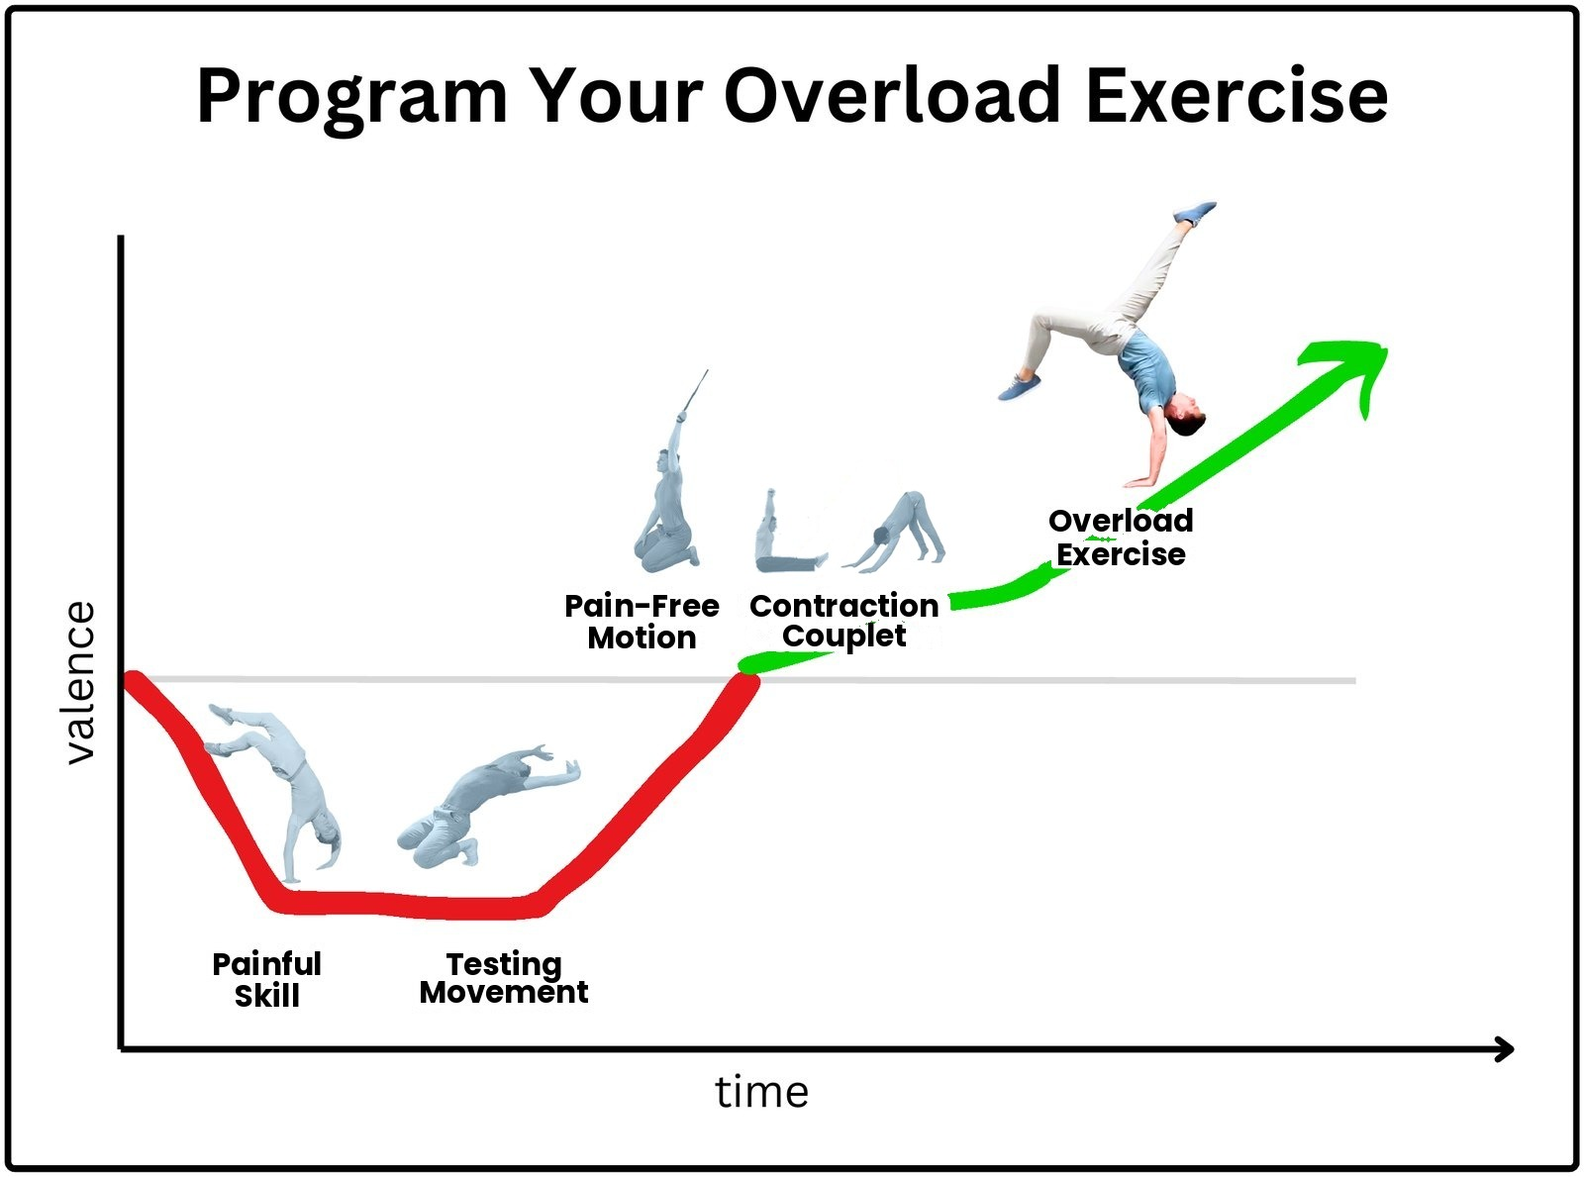
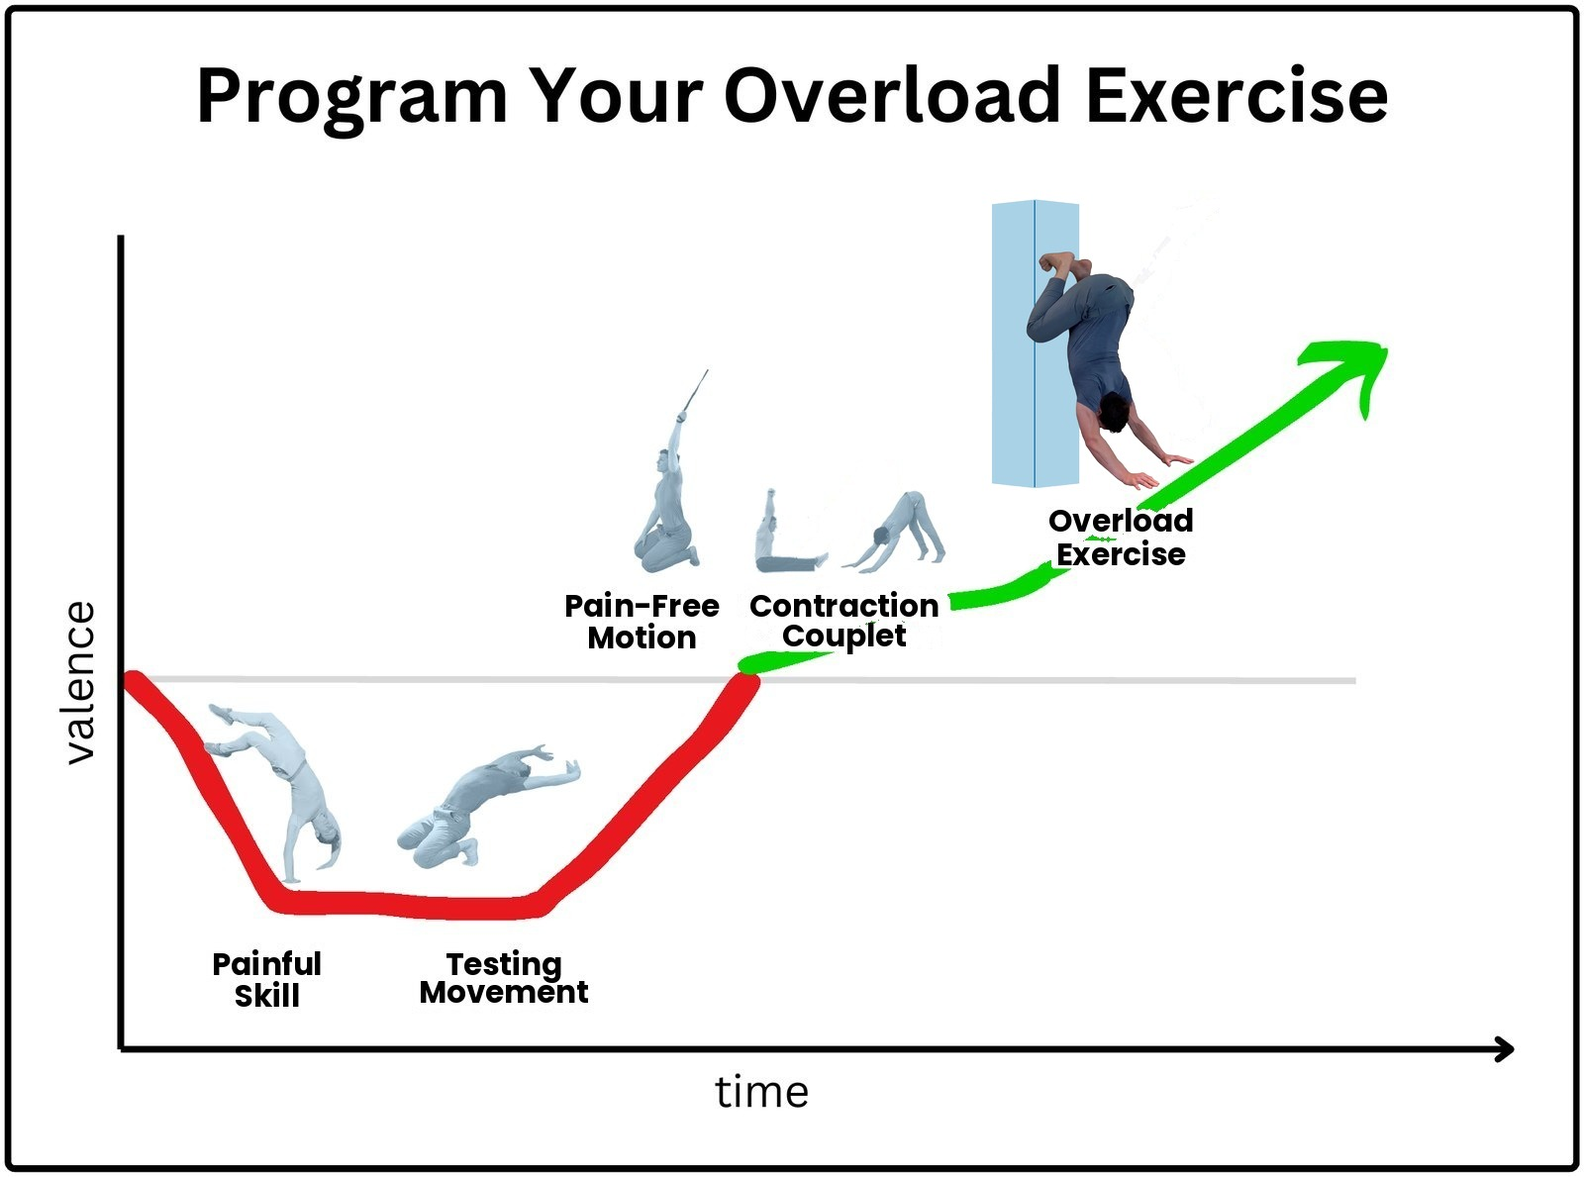
Preview: Sam's second round of comments; wall chest reach replaces the walkover in the journey graphics; vicious cycle images back in Learn
Claude-Session: https://claude.ai/code/session_016TMnibwH4s6BQ4bbPosSiD

Changed region(s): [[0.625, 0.1556, 0.7812, 0.4357], [0.75, 0.1556, 0.7812, 0.1867]]

diff --git a/index.html b/index.html
@@ -586,7 +586,7 @@ function tourCards(p){ const name=esc((p&&p.person)||"there"); const link=fromLi
   const c2 = `<h1>Here’s the path</h1><img class="fig" src="img/journey.jpg" alt="The resilience journey, steps 1 through 5." width="1000" height="794"><p>First, a short safety screening. Then five steps:</p><ul>
     <li><b>Assess:</b> name the skill that’s limited, and how much</li>
     <li><b>Discover:</b> find a simple test you’ll repeat once a week</li>
-    <li><b>Approach:</b> find two, gentle, daily movements</li>
+    <li><b>Approach:</b> find three gentle daily movements</li>
     <li><b>Program:</b> swap one exercise in your training for one that rebuilds the problem area</li>
     <li><b>Track:</b> see your progress as you tick off your daily movements, log the new exercise, and record your weekly test results</li></ul>`;
   const c3 = link ? `<h1>What it takes</h1><p>Your job now: about 3 minutes a day, your training with one exercise swapped, and one test a week. Send Sam a check-in whenever he asks, or anytime something changes.</p>`
@@ -695,7 +695,7 @@ V.screen = () => {
   return `<div class="stack">
   <div class="card flat"><span class="eyebrow">Before you start · Part ${part===1?2:1} of 2</span><h1>Pre-ADAPT Screening</h1></div>
   ${part===1?"":`<div class="card"><p>Before starting the ADAPT journey, we need to rule out more serious underlying conditions. If you select ‘yes’ for any of the red flags below, the pain and movement related symptoms you are experiencing may be secondary to something more nefarious. Or, they may be due to a more significant structural issue that requires invasive intervention.</p>
-  <p>In these cases, we advise you to seek out a professional healthcare provider in-person, if you haven’t already. Regardless, the ADAPT method, or at least the lessons and perspectives it is built upon, can still be powerful tools to help you on your journey, no matter what you are dealing with.</p></div>`}
+  <p>In these cases, we advise you to seek out a professional healthcare provider in-person, if you haven’t already, or you can get personalized guidance from our ADAPT team. Regardless, the ADAPT method, or at least the lessons and perspectives it is built upon, can still be powerful tools to help you on your journey, no matter what you are dealing with.</p></div>`}
   ${part!==1?`<div class="card"><h2>Red flags</h2><div>${RED_FLAGS.map((q,i)=>yn("rf",i+1,q,rf[i+1])).join("")}</div>
   <p class="fine"><b>*MEDICAL DISCLAIMER:</b> ${esc(SCREEN_DISCLAIMER)}</p></div>
   <div class="row spread"><button class="btn plain" data-act="go" data-v="home">Back</button><button class="btn" data-act="part" data-v="1">Next: Health status and history</button></div>`
@@ -786,6 +786,7 @@ function exBox(p,k,label){ const e=exFor(p);
 function subPart(n,title,paths,body){ const p=P(); const done = paths.length && paths.every(x=>String(getPath(p,x)??"").trim());
   return `<div class="card sub" data-req="${paths.join(",")}" data-done="${done?"1":""}"><h2 class="sub-h"><span class="n"><span>${n}</span></span>${esc(title)}</h2>${body}</div>`; }
 const more = (title, html) => `<details class="more"><summary>${esc(title)}</summary><div class="small">${html}</div></details>`;
+const PAIN_EX = `<p class="small">Ex., if your pain is normally at a 3/10, then temporarily aggravating your pain to a 5/10 can be tolerable IF between sets/after your workout it returns to a 3/10 or below.</p>`;
 const PAIN_GUIDE = `<div class="rule"><b>The pain guidelines: BOTH must be met</b><span>During movement: pain can increase 0-2 points out of 10 ABOVE baseline</span><span>At rest: pain returns to baseline level shortly after</span></div>`;
 const shown = v => { const t=String(v??"").trim(); return t ? esc(t) : `<span class="muted">Not filled in yet</span>`; };
 const regionName = p => [ (SIDES.find(s=>s[0]===p.side)||[])[1], (REGIONS.find(r=>r[0]===p.region)||[])[1] ].filter(Boolean).join(" ").toLowerCase();
@@ -800,7 +801,8 @@ const STEP_META = {
 const PARTS = {
   step1:[
     {t:"Overview", body:p=>{ const a=p.assess; return `<div class="card"><p>What are you dealing with? What is that getting in the way of? More information is better than less. You are setting your starting point and desired end-point. The more details you have, the easier the next steps will be.</p>
-      <div class="row" role="group" aria-label="Kind of limitation">
+      <b id="kind-q">Does your skill hurt, or is it limited without pain?</b>
+      <div class="row" role="group" aria-labelledby="kind-q">
       <button class="btn small ${a.kind!=="restricted"?"":"plain"}" data-act="kind" data-v="painful" aria-pressed="${a.kind!=="restricted"}">It hurts</button>
       <button class="btn small ${a.kind==="restricted"?"":"plain"}" data-act="kind" data-v="restricted" aria-pressed="${a.kind==="restricted"}">It's limited, but doesn't hurt</button></div>
       ${a.kind==="restricted"?`<p class="fine">If the label of “pain” isn’t connecting with you, we’ve all got a weak link that’s holding us back from a skill we want; just swap that language in your mind whenever it comes up.</p>`:""}</div>`; }},
@@ -837,6 +839,7 @@ const PARTS = {
       sum:p=>[["Crux",p.determine.crux]]},
     {t:"Testing Movement", paths:["determine.move"], body:p=>subPart(2,"Pick your Testing Movement",["determine.move"],`<p class="small">Choose a controlled, simple movement that replicates the crux you just identified. It should:</p>
       <ul class="tight small"><li>Bring on a little of the problem, so it actually tests something</li><li>Be easy and safe to get into, with no warm-up</li><li>Let <b>you</b> control the speed, how far you go, and load relatively easily</li></ul>
+      <div class="msg info"><b>The right amount of discomfort</b><ul class="tight small"><li>No extra pain the next day</li><li>No extra fear or nervousness about moving</li></ul><p class="small">You should feel fine visiting your pain this way once a week.</p></div>
       ${exBox(p,"tm")}
       ${field("My Testing Movement","determine.move","",{ph:"Name or describe the movement"})}
       ${more("Struggling to pick one?",`<p>If you’re fighting for balance or can’t control the speed, the test is probably too hard to be reliable; make it simpler or add support (a wall, a pole, a chair). The key is that you control when and how much you feel it.</p>`)}`)
@@ -847,12 +850,11 @@ const PARTS = {
       ${field("How far you go","determine.range","Use landmarks, not degrees. ex., “fingertips reach the top of the door frame” or “thighs level with the chair seat.”")}
       ${field("What load or assistance","determine.load","ex., bodyweight, a 5 kg plate, holding a chair.")}
       ${isPainful(p)?`<div style="display:grid;gap:6px"><b>Pain during the test (NRSoP, 0-10)</b>${scale("determine.nrsop",p.determine.nrsop,"nrsop")}</div>`:`<p class="fine">For a Restricted Skill, measure the test by range, reps, load, or time instead of pain.</p>`}
-      <div class="msg info"><b>The right amount of discomfort</b><ul class="tight small"><li>No extra pain the next day</li><li>No extra fear or nervousness about moving</li></ul><p class="small">You should feel fine visiting your pain this way once a week.</p></div>
       <div class="rule"><b>Test once a week, cold</b><span class="small">No warm-up, and around the same time of day if you can. Changes in these numbers over time tell you whether you’re improving, holding steady, or slipping.</span></div>`),
       sum:p=>[["Reps or time",p.determine.dose],["How far",p.determine.range],["Load or assistance",p.determine.load],...(isPainful(p)?[["NRSoP",p.determine.nrsop!=null?p.determine.nrsop+"/10":""]]:[])]}
   ],
   step3:[
-    {t:"Overview", body:p=>`<div class="card"><p>Now you’ll find two daily exercises that visit the crux safely:</p>
+    {t:"Overview", body:p=>`<div class="card"><p>Now you’ll find three daily exercises that visit the crux safely:</p>
       <ul class="tight small"><li><b>Pain-Free Motion:</b> move through the crux position with zero pain</li><li><b>Contraction Couplet:</b> two holds in the crux position, pushing in opposite directions</li></ul>
       ${more("Why these two?",`<p>Gentle, pain-free movement increases blood flow, helps healing, and teaches your brain that the position isn’t dangerous. Holding still while you push (an isometric hold) starts the strengthening, calms the pain response to load over time, and teaches your brain that loading the position is safe too.</p>`)}</div>`},
     {t:"Pain-Free Motion", paths:["approach.pfm"], body:p=>subPart(1,"Pain-Free Motion",["approach.pfm"],`<p class="small">Move in and out of the crux position with <b>zero pain or discomfort</b>, during and after. Get help to make that happen: a band, a wall, a door frame, your other hand, or a different body position.</p>
@@ -862,7 +864,8 @@ const PARTS = {
       sum:p=>[["Pain-Free Motion",p.approach.pfm]]},
     {t:"Contraction Couplet", paths:["approach.cc","approach.cc2"], body:p=>subPart(2,"Contraction Couplet",["approach.cc","approach.cc2"],`<p class="small">Two holds in the crux position. No movement; just push and hold.</p>
       <ol class="tight small"><li><b>Into it:</b> push in the direction that hurts</li><li><b>Away from it:</b> push the opposite way</li></ol>
-      <p class="small">Effort is fine, and pain can rise a little (up to 2 points above where you started) as long as it settles back down shortly after you stop. Adjust the angle, the support, or how hard you push until both holds fit.</p>
+      <p class="small">Effort is fine, and some pain is okay, as long as both holds stay within the pain guidelines. Adjust the angle, the support, or how hard you push until both holds fit.</p>
+      ${PAIN_GUIDE}${PAIN_EX}
       ${exBox(p,"into","Into it, example")}
       ${field("Hold 1: into it","approach.cc","",{area:true})}
       ${exBox(p,"away","Away from it, example")}
@@ -889,7 +892,7 @@ const PARTS = {
       <li><b>Range:</b> start where it doesn’t aggravate your pain, then go a little deeper over time until you reach your full range</li>
       <li><b>Load:</b> start lighter, then add weight; for bodyweight exercises, go from two limbs to one, steeper angles, or longer levers</li></ul>
       <img class="fig" src="img/ex-load.jpg" alt="Lower load to higher load in a similar range." width="1600" height="754">
-      ${more("The DRL method (Dose, Range, Load)",`<p>These are the same variables you use for all your conditioning exercises. Make sure to keep following the “Respect But Don’t Fear Your Pain” guidelines:</p>${PAIN_GUIDE}<p>If your pain is normally at a 3/10, then temporarily aggravating your pain to a 5/10 can be tolerable IF between sets/after your workout it returns to a 3/10 or below.</p>`)}</div>`}
+      ${more("The DRL method (Dose, Range, Load)",`<p>These are the same variables you use for all your conditioning exercises. Also, though, make sure to keep following the “Respect But Don’t Fear Your Pain” guidelines:</p>${PAIN_GUIDE}${PAIN_EX}`)}</div>`}
   ]
 };
 const partTitle = (p,pt) => typeof pt.t==="function" ? pt.t(p) : pt.t;
@@ -1145,9 +1148,6 @@ function planOnly(p){ const c=JSON.parse(JSON.stringify(p)); c.logs={daily:{},te
 const learnRaw = () => `<div class="stack">
   <div class="card flat"><span class="eyebrow">Learn</span><h1>The ideas behind ADAPT</h1></div>
   <img class="fig" src="img/five-movements.jpg" alt="The 5 Resilience Movements: Painful Skill, Testing Movement, Pain-Free Motion, Contraction Couplet, Overload Exercise." width="1600" height="622">
-  <details><summary>Introduction</summary><div class="body">
-  <p>This guide contains all the information you need to use the ADAPT method independently. Pain and injuries are inevitable parts of any training approach and life in general. Having the tools, and the knowledge for how to use them, to address the inevitable is therefore critically important to rescue and protect your Movement Freedom.</p>
-  <p><b>The goal</b> of ADAPT is to help you adapt beyond your previous limitations. It is a uniquely skill-first approach, meaning, the entire process is oriented towards and utilizes the dynamic skills and conditioning routine you cherish and are already using to achieve movement freedom.</p></div></details>
   <details><summary>Prerequisite knowledge</summary><div class="body">
   <p><b>Injury:</b> the tissue damage resulting from tissue overload. Lives in the tissue.</p>
   <p><b>Pain:</b> the negative physical experience frequently associated with injury. Lives in the brain.</p>
@@ -1159,8 +1159,8 @@ const learnRaw = () => `<div class="stack">
   <li><b>Ignoring pain</b> and just powering through is disrespecting your pain, and means alarm bells are constantly blaring during your activity, which feeds danger signals into the brain, which further amplifies the pain response</li>
   <li><b>The balance</b> of “respect but don’t fear your pain” means some pain is okay, maybe even good, depending on the context.</li></ul>
   <div class="rule"><b>The pain guidelines: BOTH must be met</b><span>During movement: pain can increase 0-2 points out of 10 ABOVE baseline</span><span>At rest: pain returns to baseline level shortly after</span></div>
-  <p class="small">If your pain is normally at a 3/10, then temporarily aggravating your pain to a 5/10 can be tolerable IF between sets/after your practice it returns to a 3/10 or below.</p></div></details>
-  <details><summary>Skills-first approach</summary><div class="body"><p>We often fall into a binary mindset when it comes to recovery: “I’m injured so I cannot/should not challenge myself. First recover, then I’ll challenge myself again.” This steals the joy of training and even potentially slows down the healing process. Instead, use what you love to make it love you back. Make your recovery approach as similar and as specific as possible to the training you feel passionate about.</p></div></details>
+  <p class="small">Ex., if your pain is normally at a 3/10, then temporarily aggravating your pain to a 5/10 can be tolerable IF between sets/after your practice it returns to a 3/10 or below.</p></div></details>
+  <details><summary>Skills-first approach</summary><div class="body"><p><b>The goal</b> of ADAPT is to help you adapt beyond your previous limitations. It is a uniquely skills-first approach, meaning the entire process is oriented towards and utilizes the dynamic skills and conditioning routine you cherish and are already using to achieve movement freedom.</p><p>We often fall into a binary mindset when it comes to recovery: “I’m injured so I cannot/should not challenge myself. First recover, then I’ll challenge myself again.” This steals the joy of training and even potentially slows down the healing process. Instead, use what you love to make it love you back. Make your recovery approach as similar and as specific as possible to the training you feel passionate about.</p></div></details>
   <details><summary>Find the victories obscured by the obvious losses</summary><div class="body"><p>It’s easy for us to focus on the negative; what we can’t do, don’t have, used to, should be able to, etc. We have “The One Big Goal” at the end for what success looks like. That’s great, but it means along the way we hate the process, our life, ourselves, because we aren’t THERE yet.</p>
   <p>Instead of just collecting all the negatives and being miserable, use each negative as an opportunity to find countless positives. “I can’t tie my shoes” gets redefined to “I can’t tie my shoes in XYZ-way like I normally do.” Then, explore multiple different ways to solve the problem. All of a sudden, that single, monumental, all-encompassing “I CAN’T,” which defines Movement Restriction, turns into: “Wow, I actually can tie my shoes if I do it in ABC- and DEF- and GHI-way, and I actually like GHI-way better than my usual XYZ-way.” Exploration, optionality, and adaptation are the hallmarks of Movement Freedom.</p></div></details>
   <details><summary>ADAPT beyond your previous limitations</summary><div class="body"><p>Your final destination is not merely to get back to where you were before the pain/injury; aim to get beyond that point. After every valley, we climb ever higher mountains. This is the essence of Movement Freedom. It is an adaptive mindset, through which we become more resilient with every injury. Our abilities expand as we age and collect more experience.</p>
@@ -1168,8 +1168,11 @@ const learnRaw = () => `<div class="stack">
   <details><summary>The 3 vicious cycles of injury management</summary><div class="body">
   <p>There are three common approaches to dealing with training-related injuries and pain: pushing through, avoiding, and fixing. You likely have found yourself on one, if not all, of these paths before.</p>
   <p><b>The first path</b> leads down the vicious cycle of pushing through. This approach has a number of issues. It negatively impacts the tissues because it progresses the injury. It negatively impacts the brain because it reinforces that certain movements are painful and therefore “dangerous.” It also doesn’t take care of the underlying patterns that caused the injury in the first place, so even if the pain goes down, the cycle will continue. It is the most immature approach in that it works better the younger we are, with progressively less effectiveness the older we become. At some point the injuries become too severe or accumulate to the point where ignoring them no longer does the trick. That’s when people usually turn to the second path.</p>
+  <img class="fig" src="img/vc-push.jpg" alt="The vicious cycle of pushing through: exceed capacity, ignore what caused the injury, push through increasing pain." width="1000" height="1000" loading="lazy">
   <p><b>The second path</b>, avoiding pain, seems like a more measured and mature approach on the surface, and logically makes a lot of sense. Unfortunately, it too has a number of issues. It negatively impacts the tissues because our bodies work by the principle of “use it or lose it;” by avoiding the movement our body becomes less capable of performing the movement. It negatively impacts the brain because it still teaches our brain to associate certain movements with pain and therefore those movements must be “dangerous.” This in turn can lead to chronic pain and possibly depression. It, too, doesn’t take care of the underlying pattern that led to the injury in the first place. This finally leads to the third path.</p>
-  <p><b>The third path</b>, finding the fix, is a categorical improvement over the first two. We acknowledge something is wrong AND we try to address it. Yet again, though, it comes along with its own significant issues. It can negatively impact the tissues through unnecessary, unhelpful, and even harmful treatments. It negatively impacts the brain because doggedly pursuing the perfect fix reinforces there must therefore be a problem that requires fixing. Problems are bad, bad is dangerous, therefore we hyperfocus on every sensation related to our painful area, which can make us feel worse and make poor decisions about what we should do to address the sensations. It also frequently puts the fix into the hands of someone/thing external to the person. Until that someone/thing is found, there isn’t anything to do about the problem, which gives the problem the opportunity to gain permanence. On top of all that, like the previous paths, it often doesn’t take care of the underlying pattern that led to the injury in the first place.</p></div></details>
+  <img class="fig" src="img/vc-avoid.jpg" alt="The vicious cycle of avoidance: exceed capacity, become more aware of pain, label pain as negative, try to avoid pain at all costs." width="1000" height="1000" loading="lazy">
+  <p><b>The third path</b>, finding the fix, is a categorical improvement over the first two. We acknowledge something is wrong AND we try to address it. Yet again, though, it comes along with its own significant issues. It can negatively impact the tissues through unnecessary, unhelpful, and even harmful treatments. It negatively impacts the brain because doggedly pursuing the perfect fix reinforces there must therefore be a problem that requires fixing. Problems are bad, bad is dangerous, therefore we hyperfocus on every sensation related to our painful area, which can make us feel worse and make poor decisions about what we should do to address the sensations. It also frequently puts the fix into the hands of someone/thing external to the person. Until that someone/thing is found, there isn’t anything to do about the problem, which gives the problem the opportunity to gain permanence. On top of all that, like the previous paths, it often doesn’t take care of the underlying pattern that led to the injury in the first place.</p>
+  <img class="fig" src="img/vc-fix.jpg" alt="The vicious cycle of the fix: exceed capacity, try to remove pain with a quick fix, experience temporary relief, return to old patterns." width="1000" height="1000" loading="lazy"></div></details>
   <details><summary>The virtuous cycle: introducing ADAPT</summary><div class="body">
   <p>When all the usual paths don’t work or have significant downsides, it’s time to forge a new path that avoids those problems and actually gets you where you want to go. It’s finally time to say hello to the ADAPT Method.</p>
   <p>The ADAPT Method consists of 5 separate steps in which you will discover your <b>5 Resilience Movements</b>. This individualized approach makes the method hyper-specific to your body and your goals, and it is how you will break new ground, instead of getting stuck in recurring injury loops. The first two steps deal with your current discomfort: we don’t ignore, or avoid or try to ‘fix’ the pain; we use it as a guiding light. From step three onwards you will discover what you can already do and use that to move you in the right direction (pun intended).</p>

diff --git a/sw.js b/sw.js
@@ -1,5 +1,5 @@
 // ADAPT offline cache. Bump VERSION on every release so phones pick up the new files.
-const VERSION = "adapt-v53";
+const VERSION = "adapt-v54";
 const CORE = ["./", "index.html", "manifest.webmanifest", "icon-192.png", "icon-512.png",
   "img/journey.jpg","img/mountain-start.jpg","img/mountain-10.jpg","img/mountain-11.jpg","img/five-movements.jpg","img/continuum.jpg","img/before-after.jpg",
   "img/step1.jpg","img/step2.jpg","img/step3.jpg","img/step4.jpg","img/step5.jpg",
